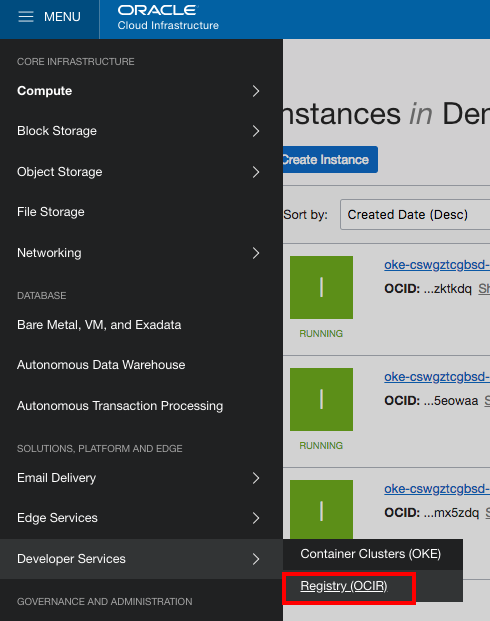
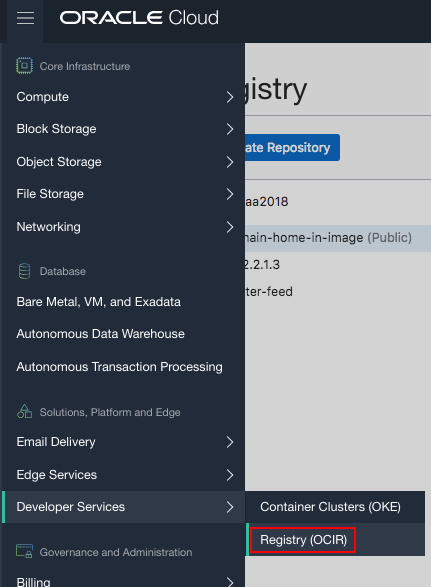
Minor Changes

Changed region(s): [[0.0, 0.0, 1.0, 1.0]]

diff --git a/LabGuide100.md b/LabGuide100.md
@@ -6,7 +6,7 @@ Updated: January 14, 2019
 
 This tutorial is based on the official [Oracle WebLogic Kubernetes Operator](https://github.com/oracle/weblogic-kubernetes-operator/blob/master/site/installation.md) installation guide.
 
-To run the operator in a Kubernetes cluster, you need to build the Docker image and then deploy it to your cluster. The operator sources can be found on github.com and is built using Apache Maven. In this tutorial you can build WebLogic Kubernetes Operator and upload to Container Registry (OCIR) for later deployment:
+To run the operator in a Kubernetes cluster, you need to build the Docker image and then deploy it to your cluster. The operator sources can be found on github.com and is built using Apache Maven. In this tutorial you can pull WebLogic Image and upload to Container Registry (OCIR) for later deployment:
 
 
 **_To log issues_**, click here to go to the [github oracle](https://github.com/oracle/learning-library/issues/new) repository issue submission form.
@@ -22,7 +22,7 @@ To run the operator in a Kubernetes cluster, you need to build the Docker image 
 - [Oracle Container Pipelines (former Wercker)](sign.up.wercker.md) account.
 - [Docker](sign.up.docker.md) account.
 
-# Build the Docker image for the operator and push to Oracle Cloud Infrastructure Registry (OCIR)
+# Pull the Docker image for the WebLogic and push to Oracle Cloud Infrastructure Registry (OCIR)
 
 ## Setup Environment
 
@@ -115,40 +115,42 @@ Now you are ready to pull the  image on docker enabled host after authenticating
         ```
  ![](images/100/docker_login.png) 
 
-- Run the following commands
-        ```
-        docker pull oracle/weblogic-kubernetes-operator:1.0
-        ```
- ![](images/100/docker_pull_operator.png) 
+- Run the following commands 
         ```
         docker pull store/oracle/weblogic:12.2.1.3
         ```
  ![](images/100/weblogic_pull.png) 
+
+- Run the following command to check your imaged is pulled.
         ```
-        docker pull traefik:1.4.5
+        docker images
         ```
-  ![](images/100/docker_traefik_pull.png) 
-    
+- Copy Image ID and paste it for the docker tag command.
+        ```
+        docker tag IMAGE ID iad.ocir.io/your_tenancy/your_user/domain-home-in-image:12.2.1.3
+        ```
+
 - Log in to the OCIR Docker registry by entering this command:
         ```
-        docker login iad.ocir.io
+        docker login iad.ocir.io -u your_tenancy/your_user
         ```
 - When prompted for your username, enter your OCI tenancy name/oci username and auth token.
     
 - Push Docker images into OCIR:
         ```
-        docker push iad.ocir.io/wark2018/weblogic-kubernetes-operator:latest
-        docker push iad.ocir.io/wark2018/weblogic:12.2.1.3
-        docker push iad.ocir.io/wark2018/traefik:1.4.5
+        docker push iad.ocir.io/your_tenancy/your_user/domain-home-in-image:12.2.1.3
         ```
-![](images/100/docker_operator_push.png) 
 ![](images/100/docker_push.png) 
-![](images/100/docker_push_traefik.png) 
 
 - From the OCI Console navigation menu, select **Developer Services->Registry (OCIR)**.
   ![](images/100/ocir.png)
 
 - Click Registry tab and you can see pushed docker images.
   
-    ![](images/100/ocir_registry.png)
+    ![](images/100/docker_registry.png)
 
+- Click Actions dropdown button and change it to public.
+
+    ![](images/100/docker_registry_public.png)
+
+**You are now ready to move to the next lab: [Lab 200](LabGuide200.md)**

diff --git a/Intro.md b/Intro.md
@@ -23,4 +23,6 @@ To learn more about this workshop please watch the video below.
 
 - _You can see a list of Lab Guides_ by clicking on the **Menu Icon** in the upper left corner of the browser window. You're now ready to continue with **Lab 100**.
 
-  ![](images/LabMenuIcon.png)
+  ![](images/help1.png)
+
+  ![](images/help2.png)

diff --git a/LabGuide200.md b/LabGuide200.md
@@ -431,3 +431,5 @@ Compartments are used to isolate resources within your OCI tenant. Role-based ac
   ![](images/200/LabGuide200-eed32915.png)
 
 - Great! We've got Kubernetes installed and accessible.
+
+**You are now ready to move to the next lab: [Lab 300](LabGuide300.md)**
